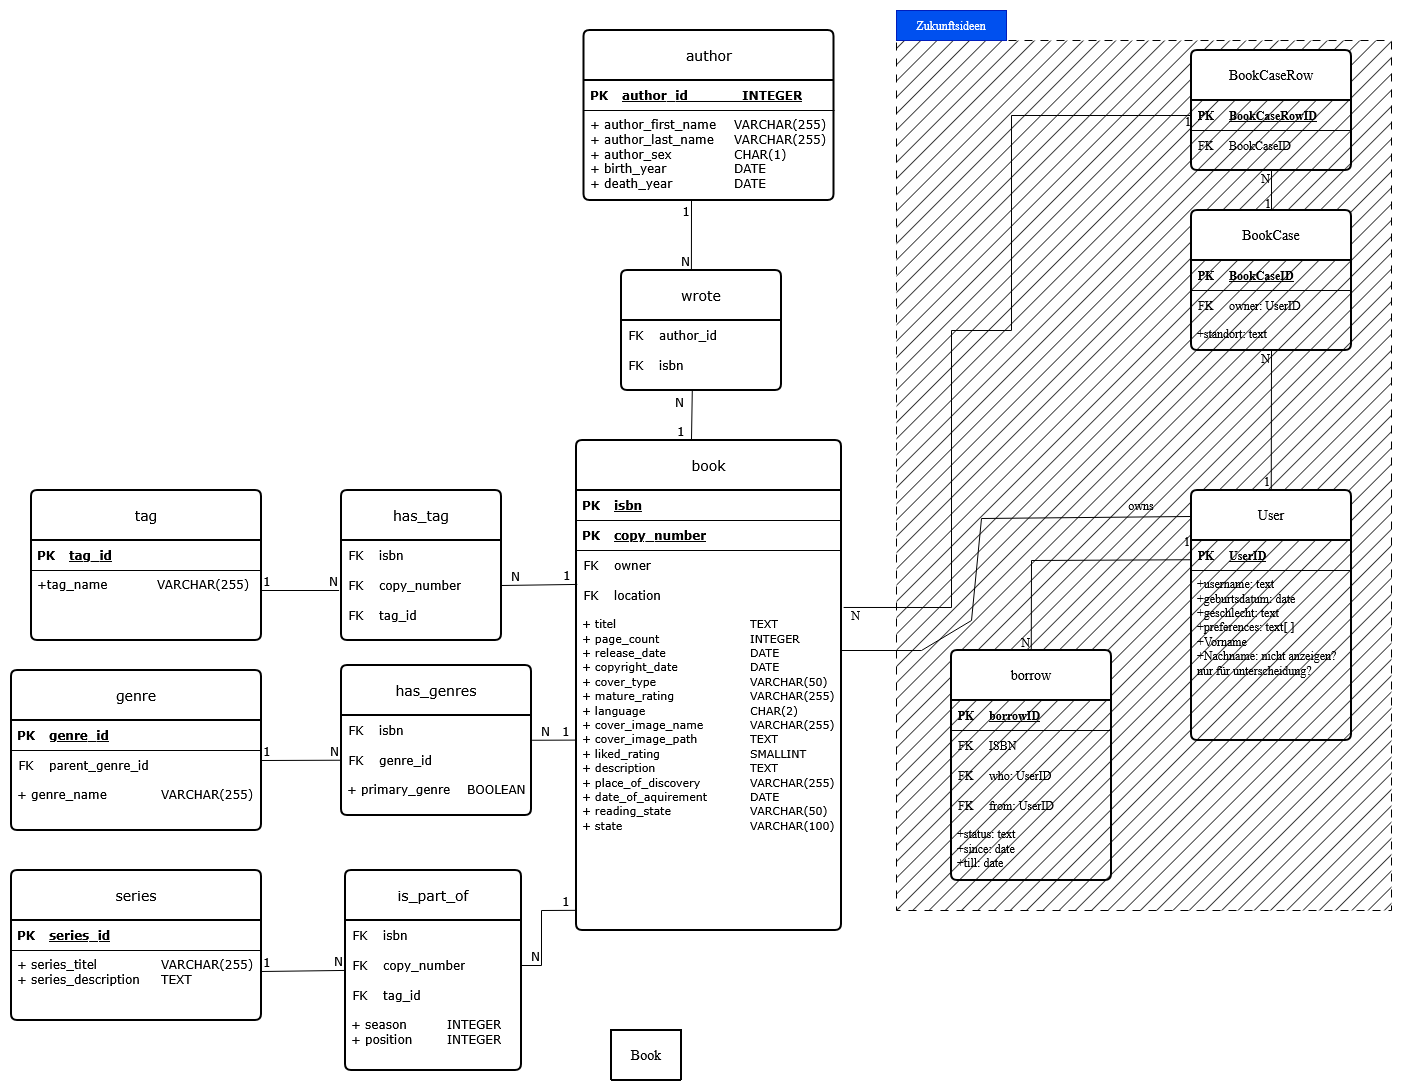
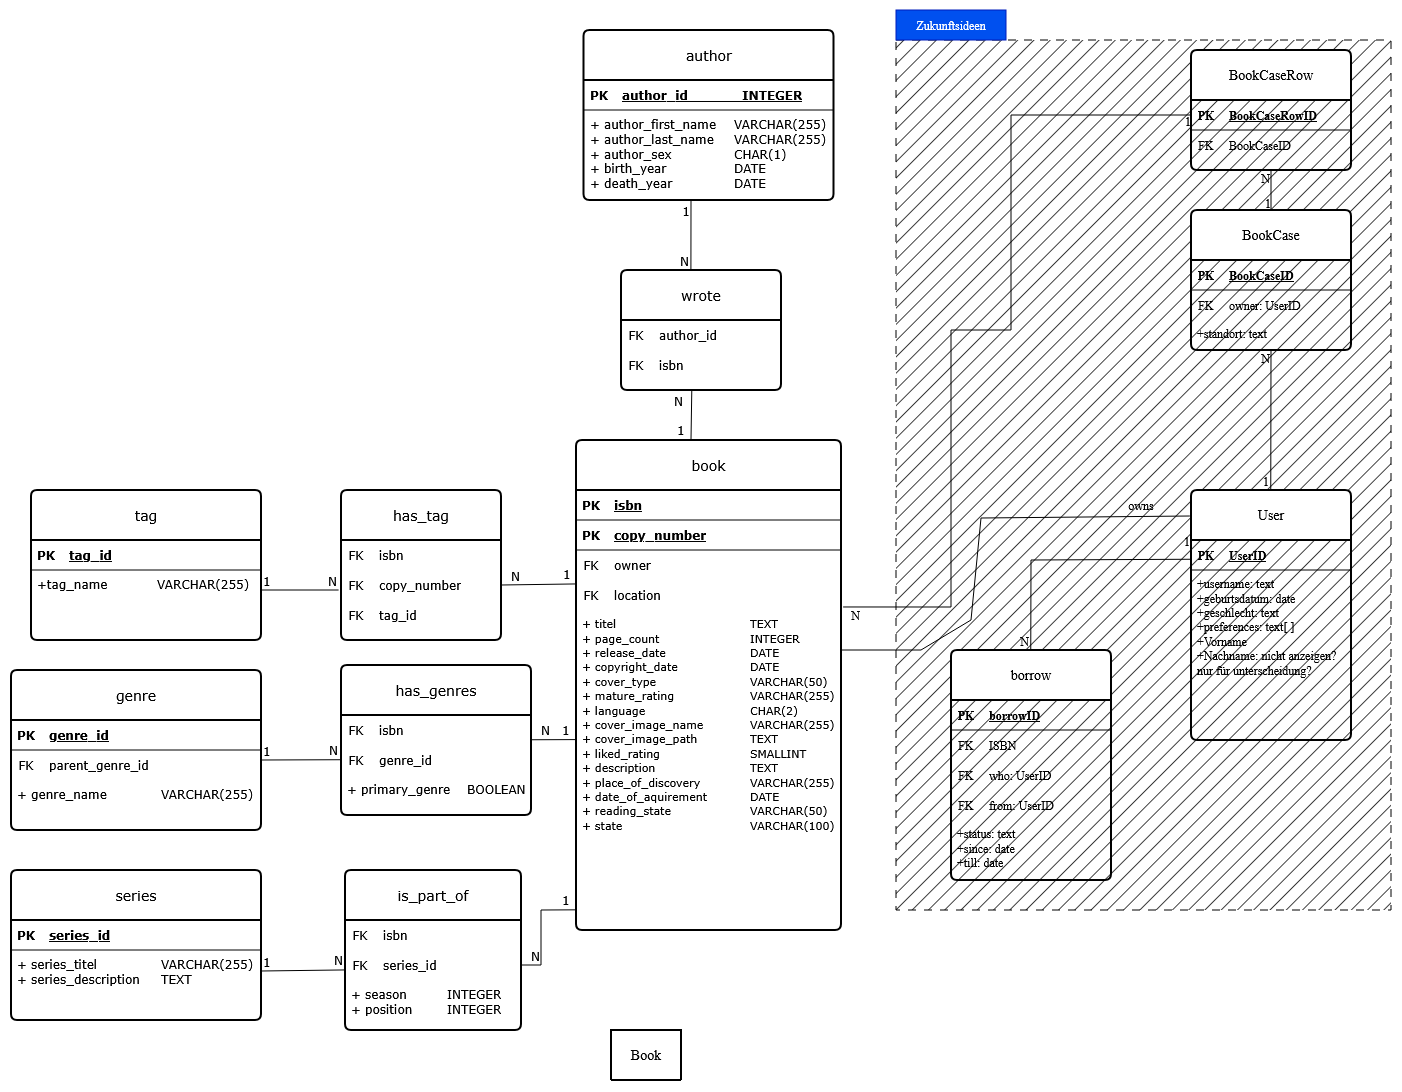
dinners ready
tabels done

Changed region(s): [[0.6134, 0.0311, 1.0, 0.8407], [0.2454, 0.8718, 0.368, 0.9652]]

diff --git a/my_scanner/src/main.rs b/my_scanner/src/main.rs
@@ -21,33 +21,43 @@ struct VolumeInfo {
 fn main() {
     //Öffnen der connection zur DB
     let conn = Connection::open("bibDB.db").unwrap();
-    //Erstellen der Büchertabelle
-    conn.execute(
-        "CREATE TABLE books (
-            isbn                    INTEGER NOT NULL,
-            copy_number             INTEGER NOT NULL,
-            titel                   TEXT,
-            page_count              INTEGER,
-            release_date            DATE,
-            copyright_date          DATE,
-            cover_type              VARCHAR(50),
-            mature_rating           VARCHAR(255),
-            language                CHAR(2),
-            cover_image_name        VARCHAR(255),
-            cover_image_path        TEXT,
-            liked_rating            SMALLINT,
-            description             TEXT,
-            place_of_discovery      VARCHAR(255),
-            date_of_aquirement      DATE,
 
-            PRIMARY KEY (isbn, copy_number),
-            UNIQUE(isbn),
-            UNIQUE(copy_number)
+    //-------------------------------------------AUTOREN-TABELLEN----------------------------------------------------------------
+
+    //Erstellen der Autorentabelle
+    conn.execute(
+        "CREATE TABLE author (
+            author_id               INTEGER NOT NULL,
+
+            author_first_name       VARCHAR(255),
+            author_last_name        VARCHAR(255),
+            author_sex              CHAR(1),
+            author_birth_date       DATE,
+            author_death_year       DATE,
+
+            PRIMARY KEY (author_id),
+            UNIQUE(author_id)
         )",
         (), // empty list of parameters.
     )
     .unwrap();
-    //-------------------------------------------WICHTIGE HINWEISE ZU DEN BÜCHERN----------------------------------------------------------------
+
+    //erstellen der "Wer hat was geschrieben" - Tabelle, reine JOIN tabelle
+    conn.execute(
+        "CREATE TABLE wrote (
+            author_id           INTEGER,
+            isbn                INTEGER,
+
+            FOREIGN KEY(author_id)  REFERENCES author(author_id),
+            FOREIGN KEY(isbn)       REFERENCES book(isbn)
+        )",
+        (), // empty list of parameters.
+    )
+    .unwrap();
+
+    //-------------------------------------------BÜCHER_TABELLEN----------------------------------------------------------------
+
+    //----------------------------WICHTIGE HINWEISE ZU DEN BÜCHERN----------------------------
     /*
         Bild einfügen
             INSERT INTO books (cover_image_name, cover_image_path)
@@ -56,31 +66,162 @@ fn main() {
         Bild auslesen
             SELECT cover_image_name, cover_image_path FROM books WHERE isbn = XXXXX;
 
-        bild anzeigen, bsp php
+        Bild anzeigen, bsp php
             echo '<img src="' . $row['cover_image_path'] . '" alt="Titelbild">';
-    */
-    //-------------------------------------------------------------------------------------------------------------------------------------------
 
-    //Erstellen der Autorentabelle
+        -------------------------------------------
+
+        liked_rating goes from 1-10, like a star system
+
+        -------------------------------------------
+
+        reading_state exampels: - currently reading
+                                - read
+                                - to be read
+                                - didn't finish
+
+        -------------------------------------------
+
+        owned_state exampels:   - owned
+                                - borrowed
+                                - lend
+                                - wishlist
+                                - sold
+                                - lost
+                                - gifted
+
+        -------------------------------------------
+
+        mature_rating can be set individually, for example if it can be read by small children, read by small children under supervision, read by teenagers without any problems,
+        is only for adults, mostly will be used as a yes no thingy, but is if it has specific limitations by whom it should be read
+    */
+    //----------------------------------------------------------------------------------------
+
+    //Erstellen der Büchertabelle
     conn.execute(
-        "CREATE TABLE author (
-            author_id               INTEGER NOT NULL,
-            author_first_name       VARCHAR(255),
-            author_last_name        VARCHAR(255),
-            author_sex              CHAR(1),
-            PRIMARY KEY (author_id),
-            UNIQUE(author_id)
+        "CREATE TABLE book (
+            isbn                    INTEGER NOT NULL,
+            copy_number             INTEGER NOT NULL,
+
+            titel                   TEXT,
+            page_count              INTEGER,
+            release_date            DATE,
+            copyright_date          DATE,
+            language                CHAR(2),
+            description             TEXT,
+            
+            cover_type              VARCHAR(50),
+            cover_image_name        VARCHAR(255),
+            cover_image_path        TEXT,
+            
+            mature_rating           VARCHAR(255),
+            liked_rating            SMALLINT,
+            place_of_discovery      VARCHAR(255),
+            date_of_aquirement      DATE,
+            reading_state           VARCHAR(50),
+            owned_state             VARCHAR(100),
+
+            PRIMARY KEY (isbn, copy_number),
+            UNIQUE(isbn),
+            UNIQUE(copy_number)
         )",
         (), // empty list of parameters.
     )
     .unwrap();
 
-    //erstellen der "Wer hat was geschrieben" - Tabelle
+    //Erstellen der has_tag Tabelle
     conn.execute(
-        "CREATE TABLE wrote (
-            titel    TEXT,
-            author  BLOB,
-            publishedDate  TEXT
+        "CREATE TABLE has_tag (
+            isbn                    INTEGER,
+            copy_number             INTEGER,
+            tag_id                  INTEGER,
+
+            FOREIGN KEY(isbn)           REFERENCES book(isbn),
+            FOREIGN KEY(copy_number)    REFERENCES book(copy_number),
+            FOREIGN KEY(tag_id)         REFERENCES tag(tag_id)
+        )",
+        (), // empty list of parameters.
+    )
+    .unwrap();
+
+    //Erstellen der tag Tabelle
+    conn.execute(
+        "CREATE TABLE tag (
+            tag_id                 INTEGER NOT NULL,
+            tag_name               VARCHAR(255),
+
+            PRIMARY KEY(tag_id),
+            UNIQUE(tag_id)
+        )",
+        (), // empty list of parameters.
+    )
+    .unwrap();
+
+    //Erstellen der has_genre Tabelle
+    conn.execute(
+        "CREATE TABLE has_genre (
+            isbn                    INTEGER,
+            genre_id                INTEGER,
+            primary_genre           BOOLEAN,
+
+            FOREIGN KEY(isbn)               REFERENCES book(isbn),
+            FOREIGN KEY(genre_id)           REFERENCES genre(genre_id)
+        )",
+        (), // empty list of parameters.
+    )
+    .unwrap();
+
+    //Erstellen der genre Tabelle
+    //---------------------------------
+    /*
+        Genre-Verschachtelung Beispiele:
+
+        Horror  - Psycho - Horror
+                - hack'n'slash
+                - kosmischer - Horror
+        Möglichst nie tiefer als 2 Ebenen runter gehen, maybe durch ein dropdown festsetzen?
+    */
+    //---------------------------------
+    conn.execute(
+        "CREATE TABLE genre (
+            genre_id                INTEGER NOT NULL,
+            parent_genre_id         INTEGER,
+            genre_name              VARCHAR(255),
+            
+            PRIMARY KEY(genre_id),
+            UNIQUE(genre_id),
+            FOREIN KEY(parent_genre_id)     REFERENCES genre(genre_id)
+        )",
+        (), // empty list of parameters.
+    )
+    .unwrap();
+
+    //Erstellen der is_part_of Tabelle
+    conn.execute(
+        "CREATE TABLE is_part_of (
+            isbn                    INTEGER,
+            series_id               INTEGER,
+
+            season                  INTEGER,
+            position                INTEGER,
+
+            FOREIGN KEY(isbn)               REFERENCES book(isbn),
+            FOREIGN KEY(series_id)          REFERENCES series(series_id)
+        )",
+        (), // empty list of parameters.
+    )
+    .unwrap();
+
+    //Erstellen der series Tabelle
+    conn.execute(
+        "CREATE TABLE series (
+            series_id               INTEGER NOT NULL,
+
+            series_titel            VARCHAR(255),
+            series_description      TEXT,
+
+            PRIMARY KEY(series_id),
+            UNIQUE(series_id),
         )",
         (), // empty list of parameters.
     )